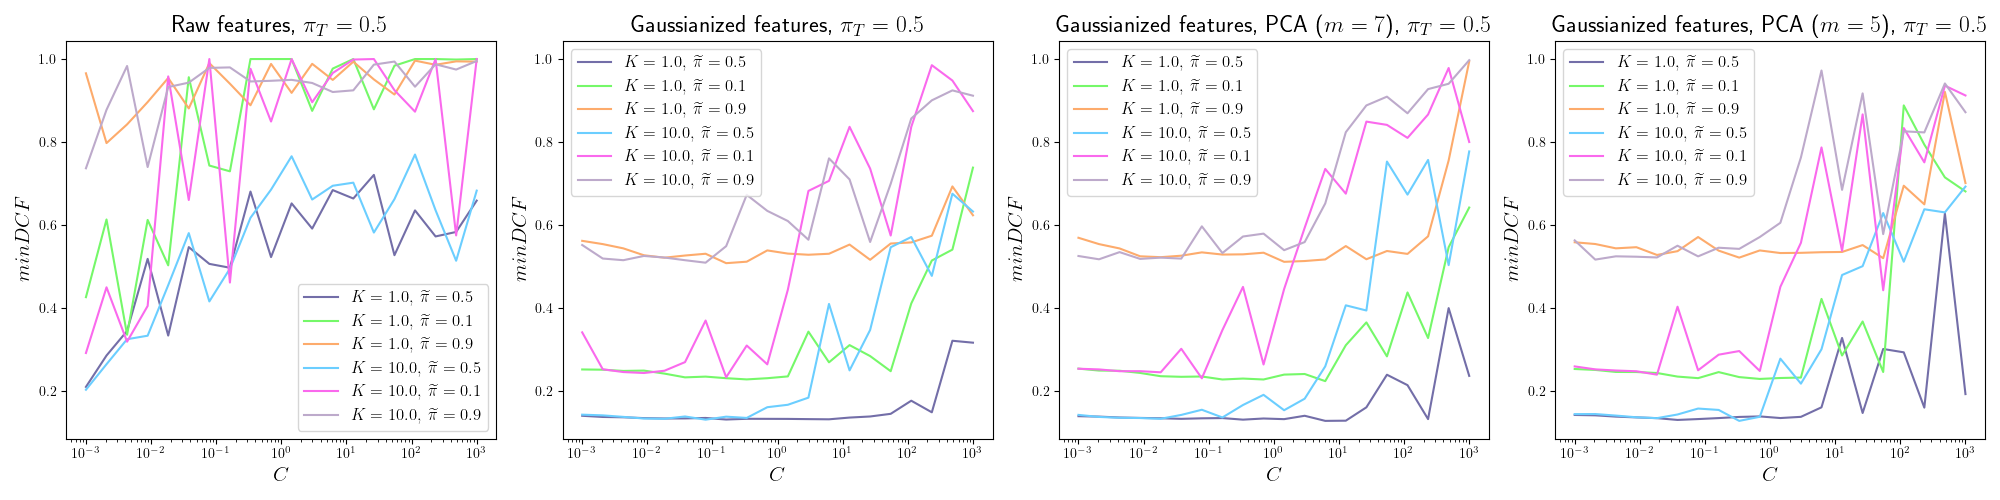
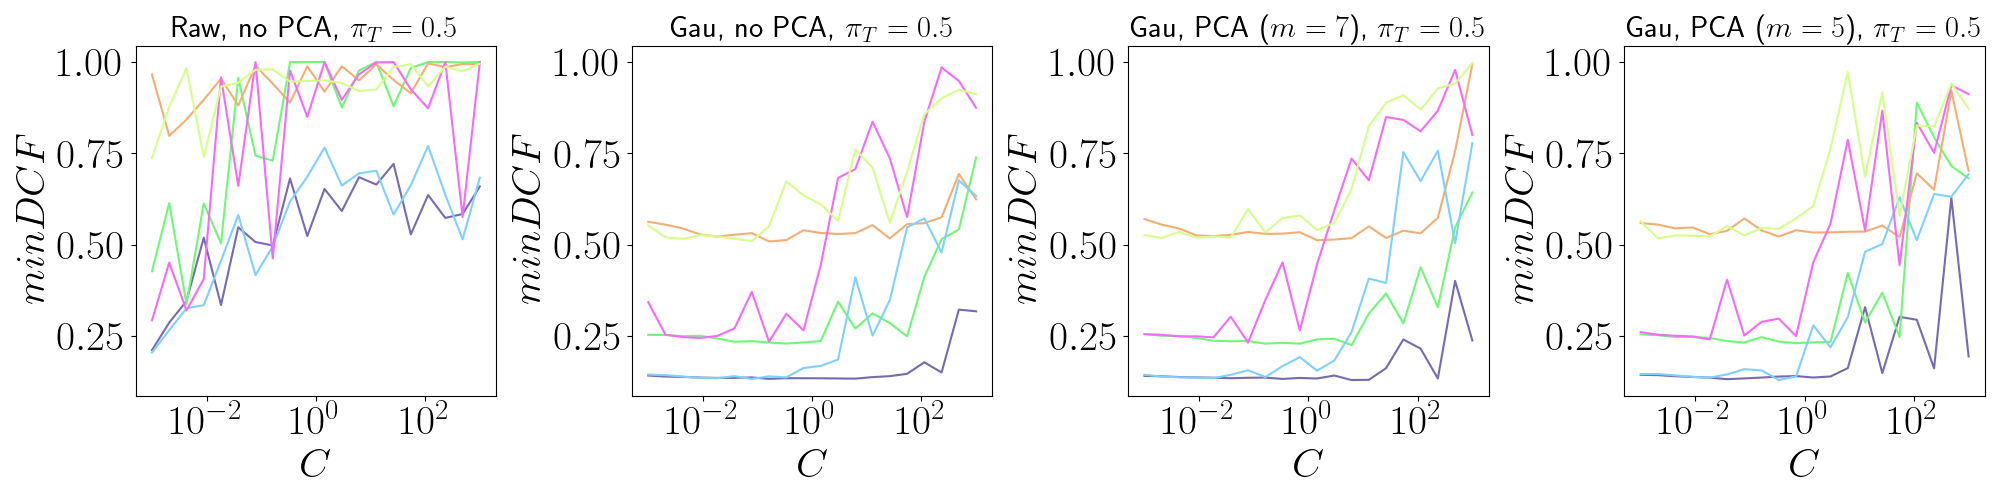
Minor changes + new plots

diff --git a/utils/plot_utils.py b/utils/plot_utils.py
@@ -270,9 +270,11 @@ def plot_tuningLinearSVMUnbalanced():
         "text.usetex": True,
         "font.family": "sans-serif",
         "font.sans-serif": ["Computer Modern Serif"],
-        "axes.titlesize": 17,
-        "axes.labelsize": 15,
-        "legend.fontsize": 12
+        "axes.titlesize": 22,
+        "axes.labelsize": 30,
+        "legend.fontsize": 20,
+        "xtick.labelsize": 30,
+        "ytick.labelsize": 30,
     })
 
     fig, axs = plt.subplots(1, 4, sharey='row')
@@ -284,20 +286,27 @@ def plot_tuningLinearSVMUnbalanced():
                 f"../simulations/linearSVM/unbalanced/new/K{str(K).replace('.', '-')}_p{str(p).replace('.', '-')}_PCA{str(m)}.npy")
             axs[i].plot(C_values, DCFs, color=colors[j], label=r"$K=" + str(K) + r",\;\widetilde{\pi}=" + str(p) + r"$")
             if m is None:
-                axs[i].set_title(rf'Gaussianized features, $\pi_T=0.5$')
+                axs[i].set_title(rf'Gau, no PCA, $\pi_T=0.5$')
             elif m == False:
-                axs[i].set_title(rf'Raw features, $\pi_T=0.5$')
+                axs[i].set_title(rf'Raw, no PCA, $\pi_T=0.5$')
             else:
-                axs[i].set_title(rf'Gaussianized features, PCA ($m = {m}$), $\pi_T=0.5$')
-            axs[i].legend()
+                axs[i].set_title(rf'Gau, PCA ($m = {m}$), $\pi_T=0.5$')
+            # axs[i].legend()
             axs[i].set_xlabel('$C$')
             axs[i].set_ylabel('$minDCF$')
             axs[i].set_xscale('log')
             axs[i].yaxis.set_tick_params(labelbottom=True)
+            axs[i].set_xticks([10**i for i in range(-2, 3, 2)])
         i += 1
     fig.set_size_inches(20, 5)
     fig.tight_layout()
     fig.show()
+
+    label_params = axs[0].get_legend_handles_labels()
+    figl, axl = plt.subplots(figsize=(6.5, 5))
+    axl.axis(False)
+    axl.legend(*label_params, loc="center", bbox_to_anchor=(0.5, 0.5), prop={"size": 40})
+    figl.show()
 
 
 def plot_tuning_LinearSVMBalanced():
@@ -464,14 +473,14 @@ def bayes_error_plots(classifier):
 
 
 if __name__ == '__main__':
-    # colors = distinctipy.get_colors(6, pastel_factor=0.7, colorblind_type='Deuteranomaly')
+    colors = distinctipy.get_colors(6, pastel_factor=0.7, colorblind_type='Deuteranomaly')
     # print(colors)
-    colors = [(0.48702807223549177, 0.4242891647177821, 0.9480975665882982), (0.9146761531779931, 0.4970424422244128, 0.41460357267068376), (0.843602824944377, 0.6031154951690304, 0.9802318468625552), (0.5887251240359368, 0.9624135405893406, 0.4585532945832182), (0.422567523593921, 0.44218101996887993, 0.5516040738892886), (0.43399916426535, 0.7098723267606655, 0.6255076508970907)]
+    # colors = [(0.48702807223549177, 0.4242891647177821, 0.9480975665882982), (0.9146761531779931, 0.4970424422244128, 0.41460357267068376), (0.843602824944377, 0.6031154951690304, 0.9802318468625552), (0.5887251240359368, 0.9624135405893406, 0.4585532945832182), (0.422567523593921, 0.44218101996887993, 0.5516040738892886), (0.43399916426535, 0.7098723267606655, 0.6255076508970907)]
     # plot_lambda()
     # plot_tuningPolySVM()
     # plot_tuningRBFSVM()
-    # plot_tuningLinearSVMUnbalanced()
-    plot_tuning_LinearSVMBalanced()
+    plot_tuningLinearSVMUnbalanced()
+    # plot_tuning_LinearSVMBalanced()
 
     # print(os.path.abspath("../simulations/GMM/GMM_rawFeature-False_PCA7_diag.npy"))
     # plot_tuningGMM2()
